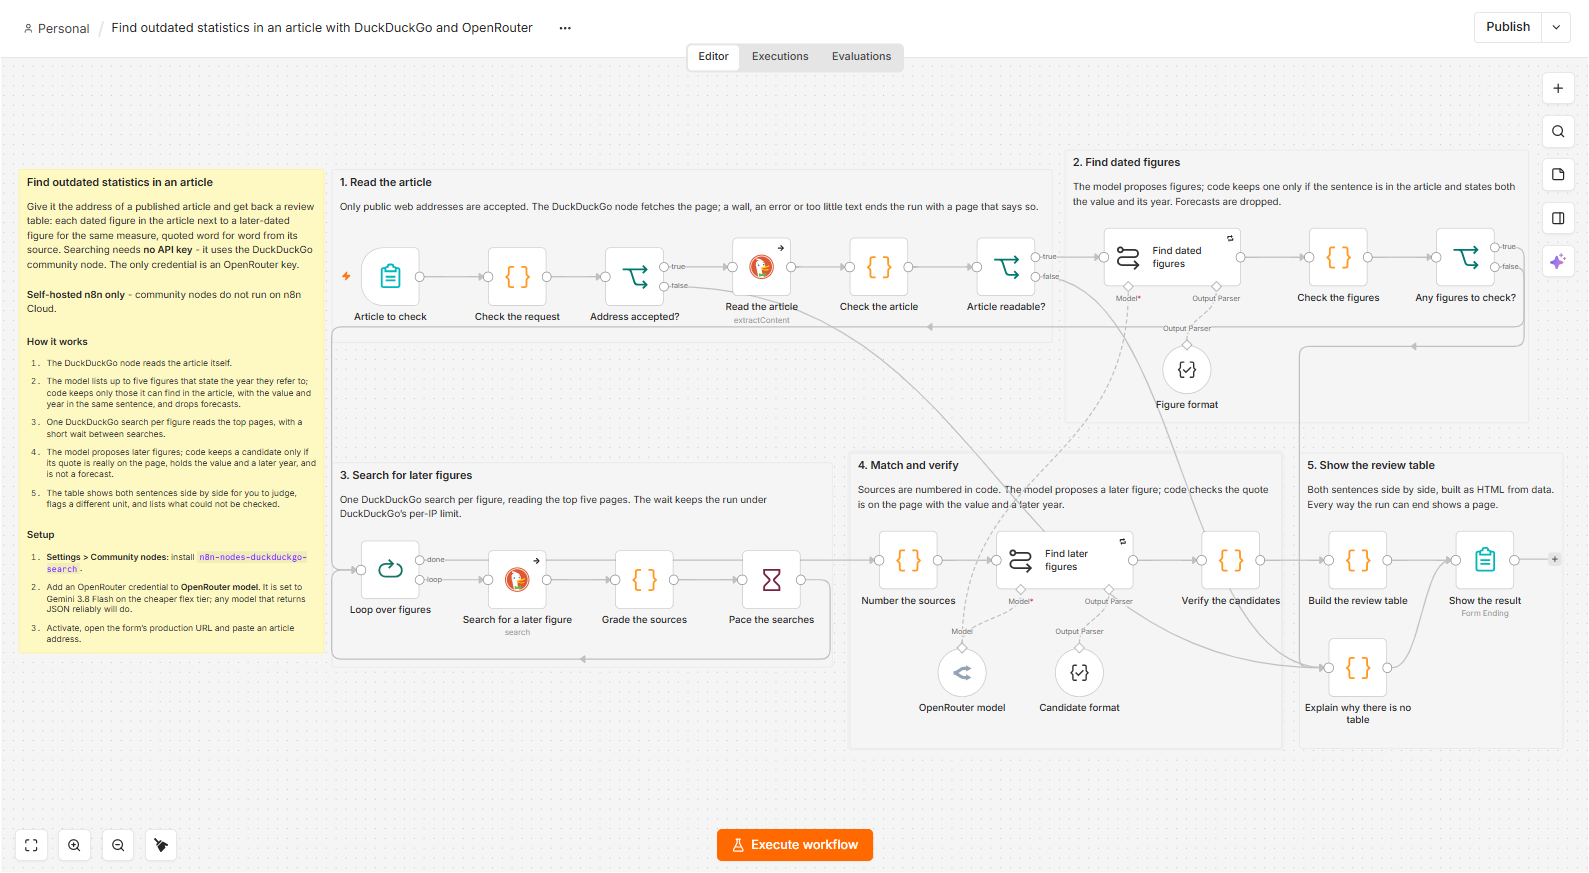
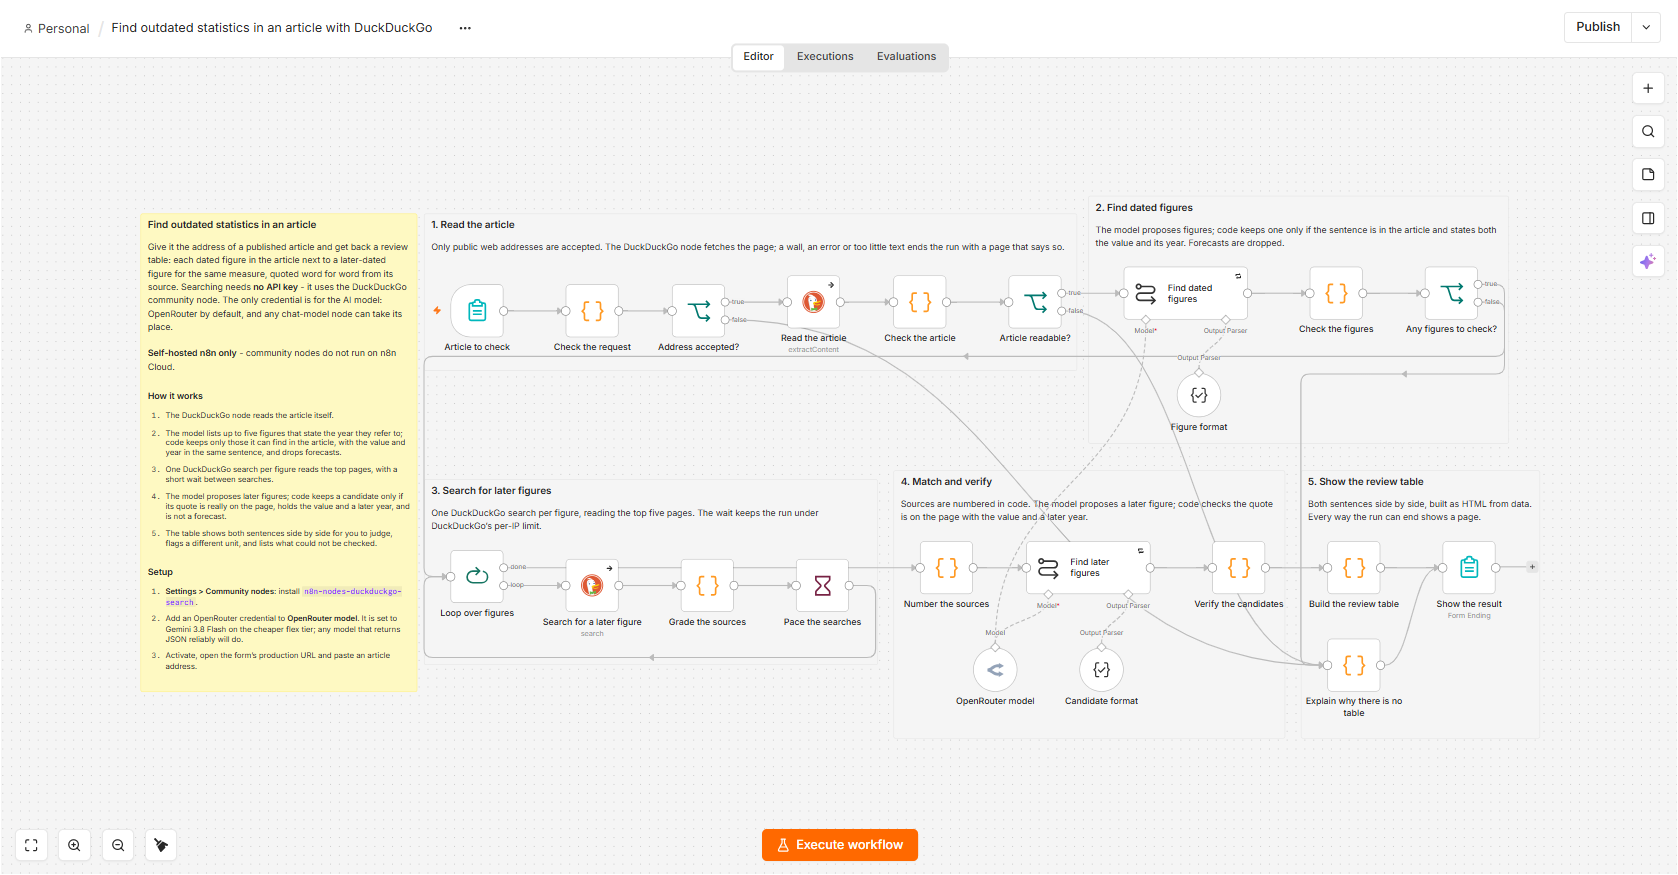
docs: template 6 names only the DuckDuckGo node in its title (#93)
The workflow name drops "and OpenRouter": the model provider is a
swappable part, and the template is meant to show the search node. The
overview sticky now says the only credential is for the AI model,
OpenRouter by default, and is taller so Setup step 3 stays visible. The
README and CHANGELOG use the same credential wording for templates 5
and 6, and the screenshot is retaken.

SUBMITTING records what the creator portal showed on 2026-10-06: the
title is written by the portal's AI and is not editable, so the
suggested title goes in Additional info; the draft was created from the
pre-rename JSON; Share new template is disabled behind a submission
limit; and the description fields have word counters, so Setup is
rewritten to clear its 50-word minimum.

diff --git a/docs/examples/SUBMITTING-TO-N8N-IO.md b/docs/examples/SUBMITTING-TO-N8N-IO.md
@@ -38,7 +38,7 @@ and its [template submission guidelines](https://n8n.notion.site/p/Template-subm
 **Template 5 was approved on 2026-10-05 and is published** as *Write cited research reports from DuckDuckGo search results with OpenRouter*:
 <https://n8n.io/workflows/20413-write-cited-research-reports-from-duckduckgo-search-results-with-openrouter/>. It was submitted with the repo JSON unchanged, the screenshot link at the top of the description, and the self-hosted line under Requirements. Templates 1 and 4 were refused as *too basic* (see the next section for why); 2 and 3 were never submitted. Two more approved templates would make the account a verified creator.
 
-**Template 6 was built on 2026-10-05 and has not been submitted yet.** See its section at the end of this file.
+**Template 6 was built on 2026-10-05 and is a draft in the portal (20511), not yet sent for human review.** See its section at the end of this file.
 
 **The upload goes through a firewall that reads the code.** Template 6's first upload failed in the portal with *"Failed to fetch"*: the edge firewall in front of `api.n8n.io` answered 403 with an HTML page and no CORS headers, so the browser saw no response at all. Blanking one node at a time found the trigger - the address check in *Check the request*, written as two regex matches of URL patterns; removing either one let the file through. It is now written with plain string steps. Check a file before submitting it: an unauthenticated `POST` of the JSON to `https://api.n8n.io/api/workflows` that reaches n8n gets a JSON `ForbiddenError`; one the firewall stops gets an HTML page.
 
@@ -90,8 +90,10 @@ Two more things worth knowing, both measured rather than assumed:
   commonly need 2–5 (`telegramApi` + an LLM, often plus Sheets or Postgres).
   The only credential rule in the guidelines is not to *hardcode* keys.
 - **The portal has no image upload field**, and that is by design — see
-  *The canvas does not render* below. The AI review derives the title from the
-  workflow's `name` and pre-fills the description form from the sticky notes.
+  *The canvas does not render* below. The AI review writes the title itself -
+  starting from the workflow's `name` but free to add to it, and not editable
+  afterwards (see Template 6) - and pre-fills the description form from the
+  sticky notes.
 
 **Diff the AI's rewritten JSON; do not upload it unread.** It has now been seen
 twice. On template 1 it was a regression. On template 4 (2026-09-11) it changed
@@ -490,8 +492,8 @@ the Code node hands on plain fields.
 ## Template 5 — Write a cited research report from DuckDuckGo results with an AI model
 
 File: `05-cited-research-report.json` — 22 real nodes (three of them model and
-output-parser sub-nodes) and six stickies. Needs an OpenRouter credential; the
-search side needs none.
+output-parser sub-nodes) and six stickies. Needs a credential for the AI model
+(OpenRouter by default); the search side needs none.
 
 > ![Write a cited research report from DuckDuckGo results](images/05-cited-research-report.png)
 >
@@ -570,17 +572,36 @@ the report is tied to what was read; it does not say the source is right.
 
 ---
 
-## Template 6 — Find outdated statistics in an article with DuckDuckGo and OpenRouter
+## Template 6 — Find outdated statistics in an article with DuckDuckGo
 
 File: `06-outdated-statistics.json` — 22 real nodes (three of them model and
-output-parser sub-nodes) and six stickies. Needs an OpenRouter credential; the
-search side needs none. Chosen on 2026-10-05 against n8n's bar (*useful to a
+output-parser sub-nodes) and six stickies. Needs a credential for the AI model
+(OpenRouter by default); the search side needs none. The workflow name names
+DuckDuckGo and not the model provider, because the provider is a swappable part.
+
+**The portal's title is not editable** (seen 2026-10-06 on the *Finalize your
+submission* page, draft 20511): its AI writes the title and shows it as plain text.
+It titled this draft "Find outdated article statistics with DuckDuckGo and
+OpenRouter", and it added "with OpenRouter" to template 5 although that workflow's
+name did not contain it - so re-uploading a renamed JSON is not expected to change
+it. Ask for the title in *Additional info* instead (the text below does), and
+rewrite the AI's pre-filled description fields, which also name OpenRouter.
+The draft was created from the JSON on `main` before the rename: upload the
+current `06-outdated-statistics.json` under *Upload updated workflow JSON*, and do
+not copy the AI's rewritten JSON.
+
+While a template sits unfinished and two others wait in *Implement changes*,
+*Share new template* is disabled behind a "Submission limit reached" dialog.
+
+Chosen on 2026-10-05 against n8n's bar (*useful to a
 broad audience and new to the library*): a keyword search of the library found
 nothing that checks an article's old figures against newer sources.
 
 > ![Find outdated statistics in an article](images/06-outdated-statistics.png)
 
-The portal now asks for the description in fields. Paste these:
+The portal now asks for the description in fields, with word counters: Quick
+overview 10-50 words, How it works and Setup 50+ each. Requirements and
+Customization are lists; Enter adds the next row. Paste these:
 
 **Quick overview**
 
@@ -601,29 +622,29 @@ Paste an article's address; this workflow lists its dated figures and, for each,
 
 **Setup**
 
-1. Self-hosted n8n: install `n8n-nodes-duckduckgo-search` under Settings → Community nodes.
-2. Add an OpenRouter credential to OpenRouter model (Gemini 3.8 Flash by default; any model that returns JSON reliably will do).
-3. Activate the workflow and open the form's production URL.
+1. Self-hosted n8n: install `n8n-nodes-duckduckgo-search` under Settings → Community nodes. Searching and reading pages need no API key or account.
+2. Add a credential to the chat-model node, OpenRouter model (Gemini 3.8 Flash by default). Any other chat-model node can replace it; choose a model that returns JSON reliably.
+3. Activate the workflow, open the form's production URL and paste an article's address. The region is optional and keeps the searches to one country or market.
 
 **Requirements**
 
 - Self-hosted n8n only: community nodes cannot be installed on n8n Cloud
 - The community node n8n-nodes-duckduckgo-search
-- An OpenRouter account and API key
+- An API key for the AI model: OpenRouter by default, or any provider with an n8n chat-model node
 - No API key or account is needed for DuckDuckGo
 
 **Customization**
 
 - Lower the limit of five figures (in Check the figures and the first prompt) for shorter runs; each figure is one DuckDuckGo search
 - Set a region in the form to keep searches to one country or market
-- Swap the OpenRouter model
+- Swap the model node for any other chat-model node
 - Keep the wait between searches: DuckDuckGo limits requests per IP address
 - Send the table by email or Slack instead of showing it on the form page
 
 **Additional info**
 
 ```text
-The canvas preview does not render community nodes, so the full canvas is in the screenshot at the top of the description. The table offers candidates for review, not corrections: a quote shown is word for word on its source page, which does not prove the figure is right or measures the same thing. Source and notes: https://github.com/samnodehi/n8n-nodes-duckduckgo/tree/main/docs/examples
+Suggested title: "Find outdated statistics in an article with DuckDuckGo". The AI model is a swappable part (any chat-model node works), so the title names only the search node. The canvas preview does not render community nodes, so the full canvas is in the screenshot at the top of the description. The table offers candidates for review, not corrections: a quote shown is word for word on its source page, which does not prove the figure is right or measures the same thing. Source and notes: https://github.com/samnodehi/n8n-nodes-duckduckgo/tree/main/docs/examples
 ```
 
 ### What the live runs showed (2026-10-05)

diff --git a/README.md b/README.md
@@ -960,8 +960,8 @@ Copy the JSON and paste it straight onto an n8n canvas (**Ctrl/Cmd+V**), or use 
 | [Expand one keyword into multiple searches](https://github.com/samnodehi/n8n-nodes-duckduckgo/blob/main/docs/examples/02-query-expansion.json) | **Search Suggestions** with `splitIntoItems`, looped into one Web Search per suggestion, with a **Wait** node so you stay under the rate limit |
 | [Monitor news on a schedule](https://github.com/samnodehi/n8n-nodes-duckduckgo/blob/main/docs/examples/03-news-monitor.json) | Scheduled **News Search** with `timePeriod: d`, branching on whether DuckDuckGo reported an `error` so a rate-limited run is handled rather than silently skipped |
 | [Write a daily AI news story to Telegram](https://github.com/samnodehi/n8n-nodes-duckduckgo/blob/main/docs/examples/04-ai-news-writer.json) | Scheduled News sweep → error branch → an **AI Agent** that picks one story and researches it with this node **as a tool** → Telegram. Needs OpenRouter and Telegram credentials; the search side needs none |
-| [Write a cited research report](https://github.com/samnodehi/n8n-nodes-duckduckgo/blob/main/docs/examples/05-cited-research-report.json) | A form question → the model plans 3-5 sub-questions → one **Web Search** with **Fetch Page Content** per sub-question, paced by a **Wait** → the model quotes its sources, code keeps only quotes that are really in the page → a report in which every claim cites its source, or a page saying why there is none. Needs an OpenRouter credential; the search side needs none. **Published in n8n's template library:** [n8n.io/workflows/20413](https://n8n.io/workflows/20413-write-cited-research-reports-from-duckduckgo-search-results-with-openrouter/) |
-| [Find outdated statistics in an article](https://github.com/samnodehi/n8n-nodes-duckduckgo/blob/main/docs/examples/06-outdated-statistics.json) | **Extract Page Content** reads a published article → the model lists dated figures, code keeps only sentences that state the value and its year → one **Web Search** per figure → code keeps a later-dated figure only if its quote is on the page with the value and a later year → a review table with both sentences side by side. Needs an OpenRouter credential; the search side needs none |
+| [Write a cited research report](https://github.com/samnodehi/n8n-nodes-duckduckgo/blob/main/docs/examples/05-cited-research-report.json) | A form question → the model plans 3-5 sub-questions → one **Web Search** with **Fetch Page Content** per sub-question, paced by a **Wait** → the model quotes its sources, code keeps only quotes that are really in the page → a report in which every claim cites its source, or a page saying why there is none. Needs a credential for the AI model (OpenRouter by default); the search side needs none. **Published in n8n's template library:** [n8n.io/workflows/20413](https://n8n.io/workflows/20413-write-cited-research-reports-from-duckduckgo-search-results-with-openrouter/) |
+| [Find outdated statistics in an article](https://github.com/samnodehi/n8n-nodes-duckduckgo/blob/main/docs/examples/06-outdated-statistics.json) | **Extract Page Content** reads a published article → the model lists dated figures, code keeps only sentences that state the value and its year → one **Web Search** per figure → code keeps a later-dated figure only if its quote is on the page with the value and a later year → a review table with both sentences side by side. Needs a credential for the AI model (OpenRouter by default); the search side needs none |
 
 Each one sets **On Error → Continue** on its main search node. A failed search does not stop the run: Web, News, Image and Video searches — a rate limit included — come back as an item with `success: false` and an `error` field instead of an empty list, whatever **Error Handling** is set to. Search Suggestions, Extract Page Content and input errors such as an empty query follow **Error Handling**, which is **Continue on Error** by default. Branch on `error`, as the news monitor and the research report do; **On Error → Continue** covers the remaining case, Error Handling set to Break on Error.
 

diff --git a/CHANGELOG.md b/CHANGELOG.md
@@ -13,8 +13,8 @@ and this project adheres to [Semantic Versioning](https://semver.org/spec/v2.0.0
 
 ### Added
 
-- **A fifth example workflow: a cited research report.** `docs/examples/05-cited-research-report.json` takes a question from a form, plans three to five sub-questions, runs one Web Search with Fetch Page Content for each, and writes a report in which every claim cites the page it came from. Code, not the model, numbers the sources, keeps only quotes that are really in the page, accepts citations only to sources with a verified finding, leaves out sentences that cite nothing and builds the source list; with too little evidence the form says so instead of writing a report. It needs an OpenRouter credential; the search side needs none. Run end to end three times against the real services; `docs/examples/SUBMITTING-TO-N8N-IO.md` records what those runs showed.
-- **A sixth example workflow: find outdated statistics in an article.** `docs/examples/06-outdated-statistics.json` reads a published article with Extract Page Content, lists its dated figures, and searches for a later-dated figure for each. Code keeps a figure only if its sentence is in the article with the value and the year, drops forecasts, and keeps a later figure only if its quote is on the source page with the value and a later year close together; a different unit is flagged. The result is a review table of both sentences side by side - candidates for review, not corrections. It needs an OpenRouter credential; the search side needs none.
+- **A fifth example workflow: a cited research report.** `docs/examples/05-cited-research-report.json` takes a question from a form, plans three to five sub-questions, runs one Web Search with Fetch Page Content for each, and writes a report in which every claim cites the page it came from. Code, not the model, numbers the sources, keeps only quotes that are really in the page, accepts citations only to sources with a verified finding, leaves out sentences that cite nothing and builds the source list; with too little evidence the form says so instead of writing a report. It needs a credential for the AI model (OpenRouter by default); the search side needs none. Run end to end three times against the real services; `docs/examples/SUBMITTING-TO-N8N-IO.md` records what those runs showed.
+- **A sixth example workflow: find outdated statistics in an article.** `docs/examples/06-outdated-statistics.json` reads a published article with Extract Page Content, lists its dated figures, and searches for a later-dated figure for each. Code keeps a figure only if its sentence is in the article with the value and the year, drops forecasts, and keeps a later figure only if its quote is on the source page with the value and a later year close together; a different unit is flagged. The result is a review table of both sentences side by side - candidates for review, not corrections. It needs a credential for the AI model (OpenRouter by default); the search side needs none.
 
 ### Fixed
 
